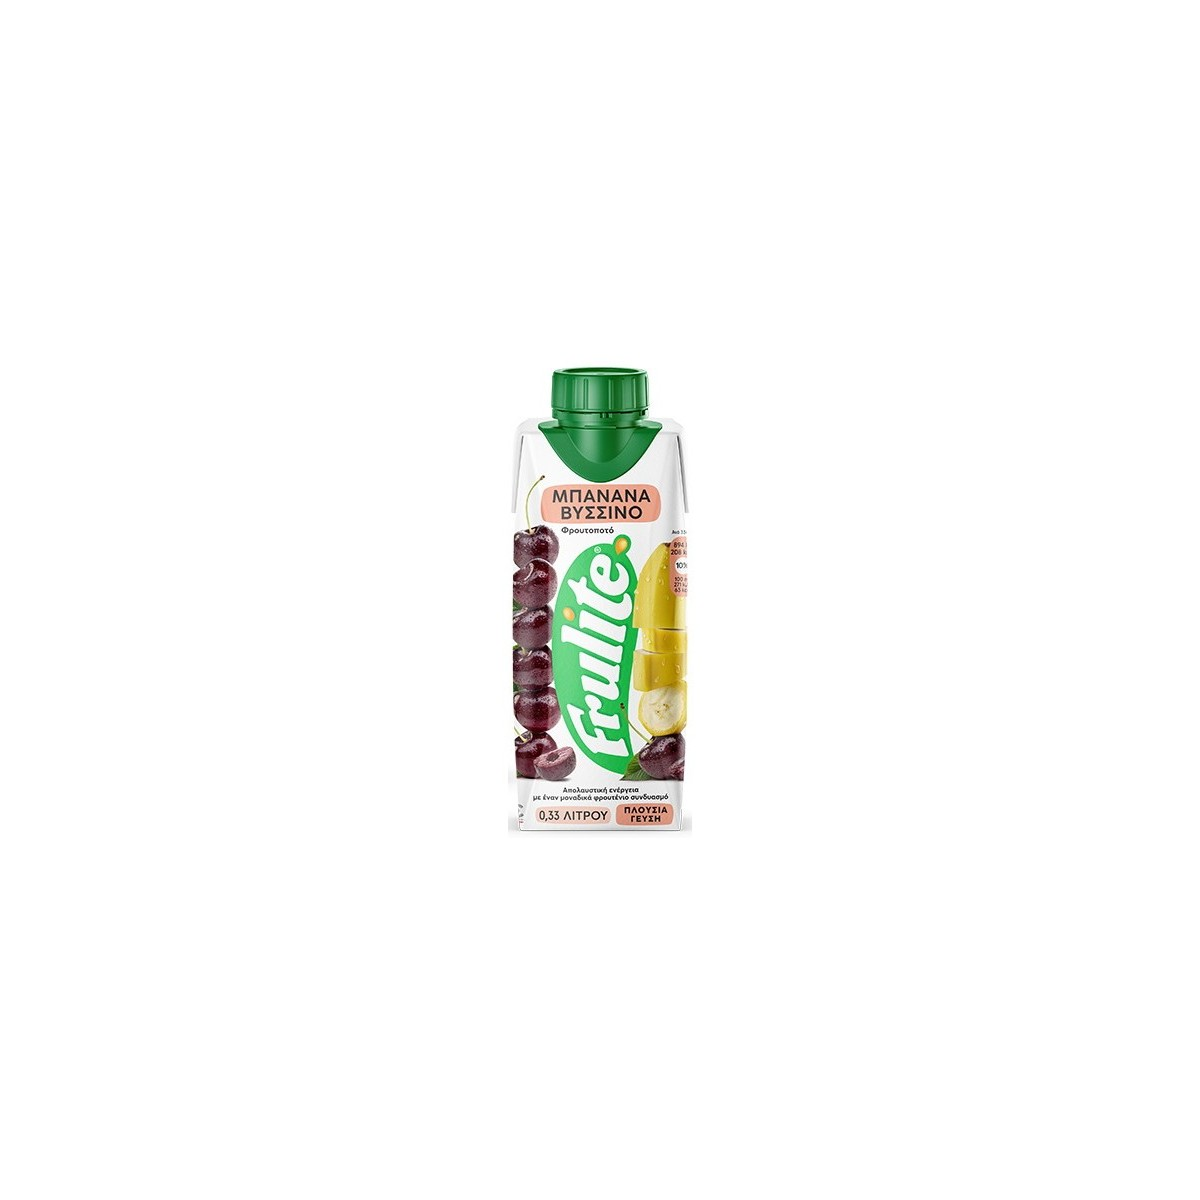
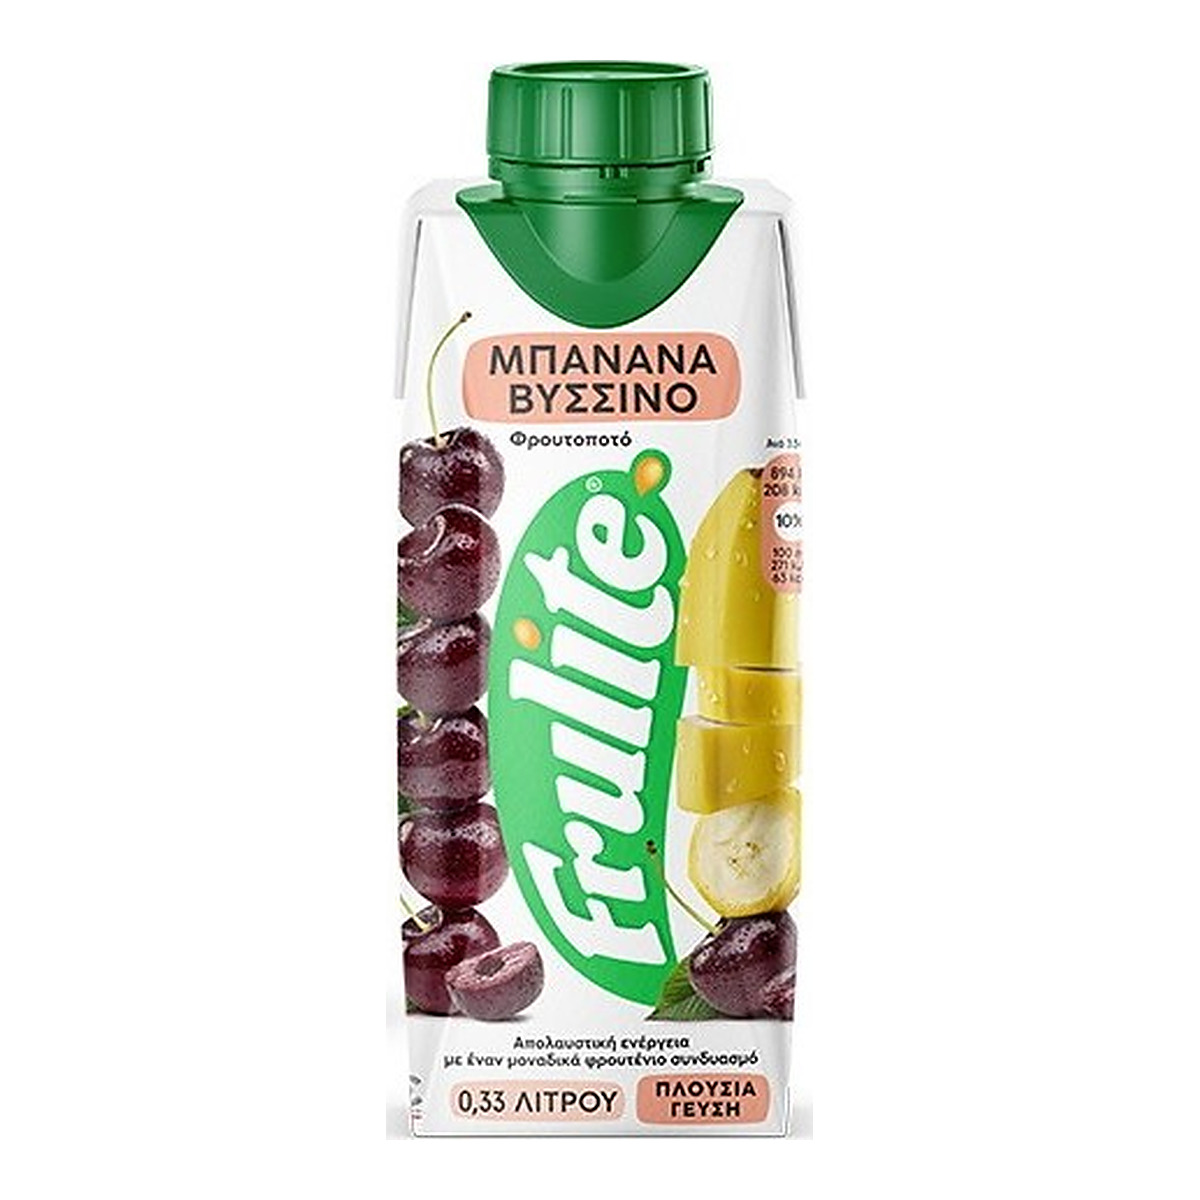
Set owner juice prices and enlarge Frulite strawberry and banana photos
Apply the confirmed juice prices and bump catalog photos to ?v=27. Recard fru-s and fru-b to the same 1200x1200 square at ~90% height (LANCZOS upscale of the current green-cap packs; no larger current-design source was found).

Changed region(s): [[0.3083, 0.0308, 0.6783, 0.9558]]

diff --git a/src/lib/catalog.ts b/src/lib/catalog.ts
@@ -259,7 +259,7 @@ export const DEFAULT_SHOP: ShopSettings = {
   hoursNote: "Καθημερινά",
 };
 
-const img = (file: string) => `/images/products/${file}?v=26`;
+const img = (file: string) => `/images/products/${file}?v=27`;
 
 const BASE_MENU: Omit<Product, "stock">[] = [
   { id: "esp", name: "Espresso", desc: "Μονός, κοντός, με κρέμα", price: 1.8, cat: "coffee", photo: "/images/espresso.jpg" },
@@ -332,19 +332,19 @@ const BASE_MENU: Omit<Product, "stock">[] = [
   { id: "pow-mb", name: "Powerade Mountain Blast", desc: "500ml", price: 1.8, cat: "drinks", photo: img("powerade-blast.jpg") },
   { id: "pow-mbz", name: "Powerade Mountain Blast Zero", desc: "500ml, χωρίς ζάχαρη", price: 1.8, cat: "drinks", photo: img("powerade-blast-zero.jpg") },
 
-  { id: "amita-p", name: "Amita Ροδάκινο", desc: "1L χυμός", price: 2.2, cat: "juice", photo: img("amita-rodakino.jpg") },
-  { id: "amita-v", name: "Amita Βύσσινο", desc: "1L χυμός", price: 2.2, cat: "juice", photo: img("amita-vyssino.jpg") },
-  { id: "amita-mix", name: "Amita Πορτοκάλι Βερίκοκο Μήλο", desc: "1L χυμός", price: 2.2, cat: "juice", photo: img("amita-triplo.jpg") },
-  { id: "amita-o", name: "Amita Πορτοκάλι", desc: "1L χυμός", price: 2.2, cat: "juice", photo: img("amita-portokali.jpg") },
-  { id: "amita-m", name: "Amita Motion 1L", desc: "9 φρούτα · 7 βιταμίνες", price: 2.5, cat: "juice", photo: img("amita-motion.jpg") },
+  { id: "amita-p", name: "Amita Ροδάκινο", desc: "1L χυμός", price: 2.6, cat: "juice", photo: img("amita-rodakino.jpg") },
+  { id: "amita-v", name: "Amita Βύσσινο", desc: "1L χυμός", price: 2.6, cat: "juice", photo: img("amita-vyssino.jpg") },
+  { id: "amita-mix", name: "Amita Πορτοκάλι Βερίκοκο Μήλο", desc: "1L χυμός", price: 2.6, cat: "juice", photo: img("amita-triplo.jpg") },
+  { id: "amita-o", name: "Amita Πορτοκάλι", desc: "1L χυμός", price: 2.6, cat: "juice", photo: img("amita-portokali.jpg") },
+  { id: "amita-m", name: "Amita Motion 1L", desc: "9 φρούτα · 7 βιταμίνες", price: 2.8, cat: "juice", photo: img("amita-motion.jpg") },
   { id: "amita-m33", name: "Amita Motion 0.33L", desc: "9 φρούτα · 7 βιταμίνες", price: 1.8, cat: "juice", photo: img("amita-motion-330.jpg") },
-  { id: "amita-b", name: "Frulite Boost Πορτοκάλι Νεκταρίνι", desc: "500ml, φυσική ενέργεια", price: 2.2, cat: "juice", photo: img("frulite-boost.jpg") },
-  { id: "fru-s", name: "Frulite Φράουλα", desc: "0,33L φρουτοποτό", price: 1.4, cat: "juice", photo: img("frulite-fraoula.jpg") },
-  { id: "fru-o", name: "Frulite Πορτοκάλι Καρότο Μάνγκο", desc: "0,33L φρουτοποτό", price: 1.4, cat: "juice", photo: img("frulite-portokali-karoto-mango.jpg") },
-  { id: "fru-v", name: "Frulite Μανταρίνι Σαγκουίνι", desc: "0,33L φρουτοποτό", price: 1.4, cat: "juice", photo: img("frulite-mandarini.jpg") },
-  { id: "fru-p", name: "Frulite Passion Fruit Κοκτέιλ", desc: "0,33L φρουτοποτό", price: 1.4, cat: "juice", photo: img("frulite-passion.jpg") },
-  { id: "fru-a", name: "Frulite Ανανάς Καρύδα", desc: "0,33L φρουτοποτό", price: 1.4, cat: "juice", photo: img("frulite-ananas-karyda.jpg") },
-  { id: "fru-b", name: "Frulite Μπανάνα Βύσσινο", desc: "0,33L φρουτοποτό", price: 1.4, cat: "juice", photo: img("frulite-banana-vyssino.jpg") },
+  { id: "amita-b", name: "Frulite Boost Πορτοκάλι Νεκταρίνι", desc: "500ml, φυσική ενέργεια", price: 1.8, cat: "juice", photo: img("frulite-boost.jpg") },
+  { id: "fru-s", name: "Frulite Φράουλα", desc: "0,33L φρουτοποτό", price: 1.8, cat: "juice", photo: img("frulite-fraoula.jpg") },
+  { id: "fru-o", name: "Frulite Πορτοκάλι Καρότο Μάνγκο", desc: "0,33L φρουτοποτό", price: 1.8, cat: "juice", photo: img("frulite-portokali-karoto-mango.jpg") },
+  { id: "fru-v", name: "Frulite Μανταρίνι Σαγκουίνι", desc: "0,33L φρουτοποτό", price: 1.8, cat: "juice", photo: img("frulite-mandarini.jpg") },
+  { id: "fru-p", name: "Frulite Passion Fruit Κοκτέιλ", desc: "0,33L φρουτοποτό", price: 1.8, cat: "juice", photo: img("frulite-passion.jpg") },
+  { id: "fru-a", name: "Frulite Ανανάς Καρύδα", desc: "0,33L φρουτοποτό", price: 1.8, cat: "juice", photo: img("frulite-ananas-karyda.jpg") },
+  { id: "fru-b", name: "Frulite Μπανάνα Βύσσινο", desc: "0,33L φρουτοποτό", price: 1.8, cat: "juice", photo: img("frulite-banana-vyssino.jpg") },
 
   { id: "rb", name: "Red Bull", desc: "250ml", price: 2.2, cat: "energy", photo: img("redbull.jpg") },
   { id: "rbsf", name: "Red Bull Sugarfree", desc: "250ml, χωρίς ζάχαρη", price: 2.2, cat: "energy", photo: img("redbull-sf.jpg") },
